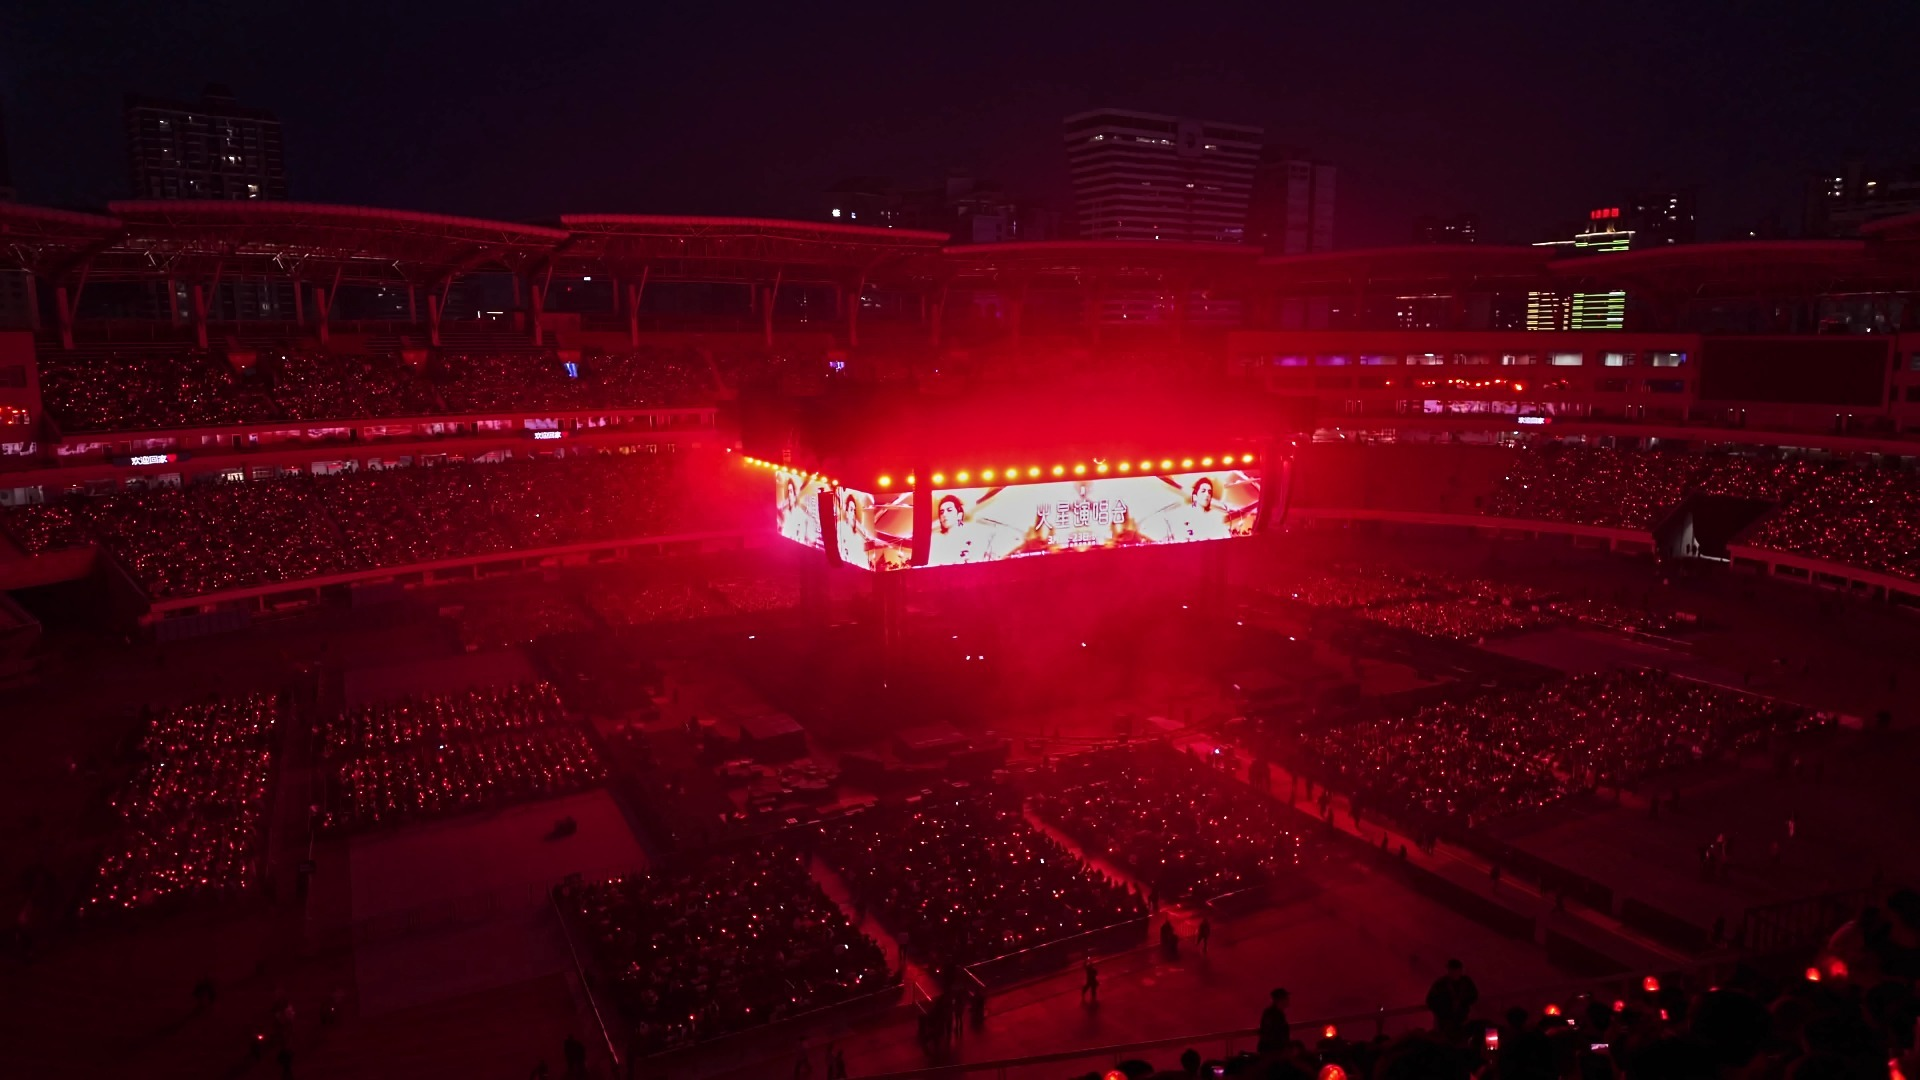
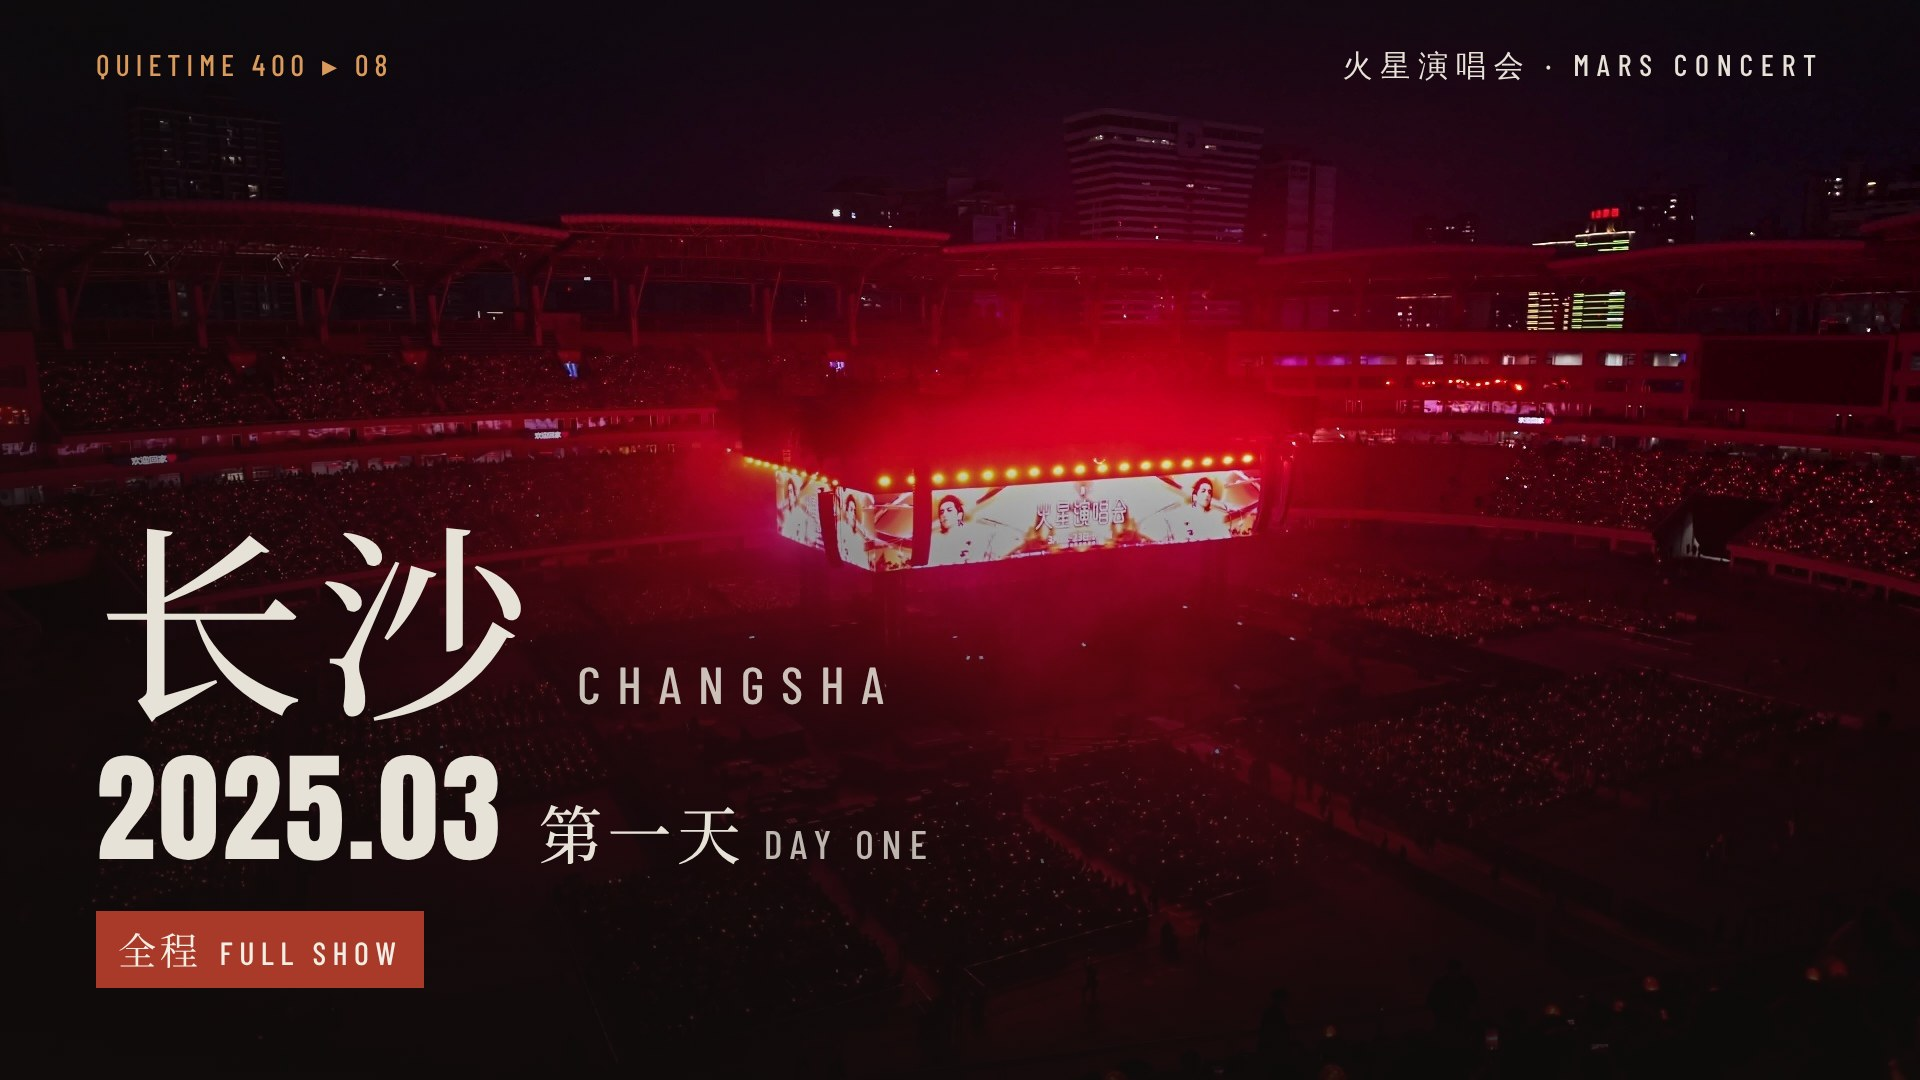
Films: covers that say where and when, and a card with two ways to watch for every film
None of the Bilibili covers named the city or the date, so each film now gets a cover
made from its still with the city, date, show and type set in the site's own type
(scripts/film-covers.mjs, npm run covers). Every film shows as a cover card with
Play (the player opens over the page) and Open on Bilibili. The admin gains the
city, date, show and still fields.

Claude-Session: https://claude.ai/code/session_01LjJ6VvrKzfDLosAx7tok1z

diff --git a/site/src/styles.css b/site/src/styles.css
@@ -288,6 +288,25 @@ html.gl .series .counter { display: none; }
 .fr-k { grid-column: 10 / span 2; font-size: 14px; color: var(--fg-2); }
 .fr-s { grid-column: 12; justify-self: end; font-family: var(--f-edge); font-weight: 500; letter-spacing: .14em; color: var(--accent); }
 .film-row:not([aria-disabled]):hover .fr-t { color: var(--accent); }
+/* every other film: a card with its cover, its name and the two ways to watch it */
+.film-cards { list-style: none; margin: clamp(40px, 6vw, 72px) 0 0; padding: 0 var(--gut); display: grid; grid-template-columns: repeat(3, minmax(0, 1fr)); gap: clamp(36px, 4vw, 56px) clamp(16px, 2vw, 28px); }
+.film-card { min-width: 0; display: flex; flex-direction: column; }
+.fc-cap { padding-top: 14px; display: flex; flex-direction: column; flex: 1; }
+.fc-t { margin: 0; font-family: var(--f-serif); font-weight: 500; font-size: clamp(17px, 1.3vw, 20px); letter-spacing: .04em; line-height: 1.45; }
+.fc-e, .fc-k { margin: 4px 0 0; font-size: 14px; color: var(--fg-2); }
+.fc-k { font-family: var(--f-edge); letter-spacing: .06em; color: var(--accent); }
+.film-acts { margin: auto 0 0; padding-top: 12px; display: flex; gap: 8px 22px; flex-wrap: wrap; align-items: center; }
+.screen-cap .film-acts { flex-direction: row; gap: 8px 22px; margin-top: 16px; }
+/* the covers carry the city, date and type in their lower left, so the play tag sits on the right */
+.film-cards .film-state, .screen .film-state { left: auto; right: 0; }
+.film-acts > * { min-height: 44px; display: inline-flex; align-items: center; padding: 0; border: 0; background: none; cursor: pointer;
+  font-family: var(--f-edge); font-weight: 500; font-size: 14px; letter-spacing: .14em; color: var(--fg); text-decoration: none; }
+.film-acts .film-play { color: var(--accent); }
+.film-acts a::after { content: ' ↗'; }
+.film-acts > *:hover { color: var(--accent); }
+.film-card .film-btn:not([aria-disabled]):hover img { transform: scale(1.04); }
+@media (max-width: 1100px) { .film-cards { grid-template-columns: repeat(2, minmax(0, 1fr)); } }
+@media (max-width: 600px) { .film-cards { grid-template-columns: minmax(0, 1fr); } }
 
 /* ── home: about teaser ── */
 .big-quote { margin: 0 0 0 calc(var(--gut) + var(--col) * 3); padding-right: var(--gut); max-width: 22em; font-family: var(--f-serif); font-size: clamp(21px, 2.3vw, 34px); line-height: 1.9; letter-spacing: .04em; }

diff --git a/site/src/parts/player.js b/site/src/parts/player.js
@@ -18,7 +18,7 @@ export default function films() {
     document.removeEventListener('keydown', esc);
     opener?.focus({ preventScroll: true });
   }
-  $$('.film-btn, .film-row').forEach((b) => b.addEventListener('click', () => {
+  $$('.film-btn, .film-row, .film-play').forEach((b) => b.addEventListener('click', () => {
     if (!b.dataset.bvid && !b.dataset.aid) { if (live) live.textContent = U.notReady || ''; return; }
     opener = b;
     const q = new URLSearchParams({ isOutside: 'true', p: b.dataset.p || '1', autoplay: '1', danmaku: '0', high_quality: '1' });
@@ -35,7 +35,7 @@ export default function films() {
     };
     if (reduce) { load(); } else {
       const state = Flip.getState(box);
-      Flip.fit(box, $('.ph', b) || b, { scale: true });
+      Flip.fit(box, $('.ph', b) || $('.ph', b.closest('[data-film]') || b) || b, { scale: true });
       gsap.fromTo(player, { backgroundColor: 'rgba(14,14,16,0)' }, { backgroundColor: 'rgba(14,14,16,.95)', duration: 0.6 });
       Flip.to(state, { duration: 0.8, ease: 'springCrit', scale: true, onComplete: load });
     }

diff --git a/docs/plan.md b/docs/plan.md
@@ -34,6 +34,8 @@
 - [x] **手机长度**（2026-11-14 完成）：iPhone 13 尺寸下首页从 12.3 屏降到 9.7 屏，作品页从 14.4 屏降到 11.5 屏，都达到目标（10 屏和 12 屏）。首页：手机上胶片两站之间的过渡从 1 屏减到 0.65 屏，每站基础停留从 0.55 屏减到 0.4 屏（`site/src/scene/spine.js`）。作品页：暗房不变，下面的系列目录在手机上改成左图右文的紧凑行（4:5 缩略图，自述最多 4 行），从 4.4 屏降到约 1.6 屏（`site/src/styles.css`）。桌面版不变。
 - [x] **示例照片换成工作室作品**（2026-11-05 完成，2026-11-14 收尾）：四个系列都是工作室自己的作品，`samples` 关闭。已删除 `settings.json` 和后台里的 `sample_credit_*`（Kodak 来源说明）以及页脚显示它的代码；`README.md` 的说明改为「示例照片开关」。
 - [x] **B站影片**（2026-11-15）：按主人意思，放上频道（space.bilibili.com/430840388）里能读到的 12 部火星演唱会录像（全程、直拍、双机位混剪），排在前面的是南京站、苏州站、杭州站、福州站。原来三部虚构的示例影片和封面已删除，封面改用 B站 原封面，存在 `content/films/<BV号>.jpg`。影像页显示全部，首页只显示前 4 部（`generate.mjs` 的 `HOME_FILMS`），避免首页变长。影像区文案改为演唱会。B站 接口对云端服务器有风控，构建时读不到时长和播放量时就只显示后台填写的片名和类型。几段二三十秒的歌曲片段和游戏直播没有放；频道更早的视频读不到（翻页被风控拦住），需要的话在后台加 BV 号。
+- [x] **影片封面与观看方式**（2026-11-15，主人要求）：B站 原封面上都没有日期和地点，12 张全部重新制作：原封面作底图（`content/films/stills/`），叠上城市（中英）、演出日期、场次、类型和胶片边码，字体配色与网站一致（`scripts/film-covers.mjs`，`npm run covers`）。影像页和首页每部影片都显示封面卡片，每张卡片都有「播放」（在本页打开播放器）和「在 B站 打开」两个入口。日期来源：苏州 29/30/31 日、杭州 2024.10.26、合肥 2024.08.10 写在标题里；南京 2026.09.27 是按标题「27号」和 10 月 17 日的发布时间推断的。
+- [ ] **影片日期待补**：长沙站（第一天、第二天）和福州站（第一天）标题里只有 Day1、Day2，封面上暂写 2025.03。请主人给出准确日期，在后台「演出日期」里改，然后重新生成封面；南京站也请核对一下是不是 9 月 27 日。
 - [x] **包体积与首次加载**（2026-11-15）：三维场景按页拆开，首页只下载胶片（spine），作品页和系列页只下载暗房（darkroom），每页少下载约 4.5KB（gzip）。three.js 本身（`kit`，gzip 137KB）已经是按需引入，主要是渲染器核心，无法再按场景拆。真正的提速来自顺序：有场景的页面在主脚本一运行就同时请求 three.js、场景代码和卷头卡要画的中文字形，不再一个等一个（`core.js` 的 `early`，新文件 `scene/text.js`）。在 1.6Mbps、150ms 延迟的模拟网络下，3D 画布出现的时间：首页 5.2 秒到 3.6 秒，系列页 5.1 秒到 5.0 秒，作品页不变（5.1 秒，卡在卷头大段中文字形的下载，受带宽限制）。
 - [ ] **全局 Skill**（2026-11-15）：核对发现 Default 和 QUIETIME WEB 两个环境原本都没有启动脚本，之前的说法有误。已写 `scripts/install-skills.sh`（8 个 Skill 锁定提交号，重复运行会跳过），并给 QUIETIME WEB 环境加了启动脚本：调用它，再跑 `npm ci`。在当前容器从头实跑通过。剩下：合并进 main 后新开一个会话，看 `~/.claude/skills` 是否齐全。
 - [ ] **MCP 登录**：regards、lottiefiles、mobbin 需要在 claude.ai 连接器里用 OAuth 登录后才能用。
